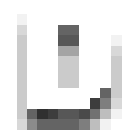
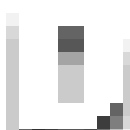
Updated the images and added numbers

diff --git a/src/game/ui/EffectContainer.java b/src/game/ui/EffectContainer.java
@@ -1,5 +1,6 @@
 package game.ui;
 
+import game.core.world.World;
 import game.ui.interfaces.Vals;
 
 import org.newdawn.slick.Color;
@@ -10,6 +11,7 @@ import org.newdawn.slick.SlickException;
 import java.time.Instant;
 import java.time.temporal.ChronoUnit;
 import java.util.ArrayList;
+import java.util.Queue;
 
 public class EffectContainer {
 
@@ -19,6 +21,9 @@ public class EffectContainer {
     private long activeFor ;
     private int x ;
     private int y;
+    private World world;
+    private Queue queue;
+    
 
 	// effect id
 	public EffectContainer(Image img, int duration,int x, int y) {
@@ -41,12 +46,7 @@ public class EffectContainer {
     	}
        
     }
-	// TODO
-	/*
-	 * Draw the image(done) -> flash the image when less than 5 seconds Show the
-	 * time left (s) << has negative number *** effects are always on player's
-	 * screen <- tick show effects vertically
-	 */
+
 	public void render(Graphics g) throws SlickException {
 		g.setColor(Color.red);
 		if(isActive()){

diff --git a/src/game/ui/states/Options.java b/src/game/ui/states/Options.java
@@ -74,7 +74,7 @@ public class Options extends BasicGameState {
 		g.drawString(mouseCoords, 10, 50);
 		
 		soundStatus.draw(Vals.BUTTON_ALIGN_CENTRE_W,Vals.BUTTON_ALIGN_CENTRE_H-Vals.BUTTON_ALIGN_CENTRE_H/10);
-		g.drawString("Screen Mode :" + (gc.isFullscreen()?"Full Screen":"Windowed"), Vals.BUTTON_ALIGN_CENTRE_W-Vals.BUTTON_ALIGN_CENTRE_W/10, Vals.BUTTON_ALIGN_CENTRE_H+Vals.BUTTON_ALIGN_CENTRE_H/10);
+		g.drawString("Screen Mode :" + (gc.isFullscreen()?"Full Screen":"Windowed"), Vals.BUTTON_ALIGN_CENTRE_W-Vals.BUTTON_ALIGN_CENTRE_W/10, Vals.BUTTON_ALIGN_CENTRE_H+2*Vals.BUTTON_ALIGN_CENTRE_H/10);
 		// add back button
 		backButton.render();
 

diff --git a/src/game/ui/WordGenerator.java b/src/game/ui/WordGenerator.java
@@ -23,7 +23,11 @@ public class WordGenerator {
 		for(char c = 'A'; c <= 'Z';c++){
 			wg.put(c,new Image("/res/alphabets/"+c+".png"));
 			wg.put((char) (c+32),new Image("/res/alphabets/"+c+".png"));
-		}		
+		}
+		for(char c = '0';c<='9';c++){
+			wg.put(c,new Image("/res/alphabets/"+c+".png"));
+		}
+		wg.put('_', new Image("/res/alphabets/_.png"));
 	}
 	/**
 	 * @param Graphics g - the graphics object

diff --git a/src/game/ui/states/PlayTest.java b/src/game/ui/states/PlayTest.java
@@ -73,7 +73,7 @@ public class PlayTest extends Play {
 		int y = r.nextInt(w.ySize - 1);
 		Location l = new Location(x, y, w);
 
-		Player testPlayer = new Player("TestPlayer", Direction.SOUTH, l);
+		Player testPlayer = new Player("Test_Player", Direction.SOUTH, l);
 		testPlayer.setHair(Player.BLONDE);
 		testPlayer.setProgress(80);
 		testPlayer.status.setAttribute(PlayerAttribute.FATIGUE, 0.2);
